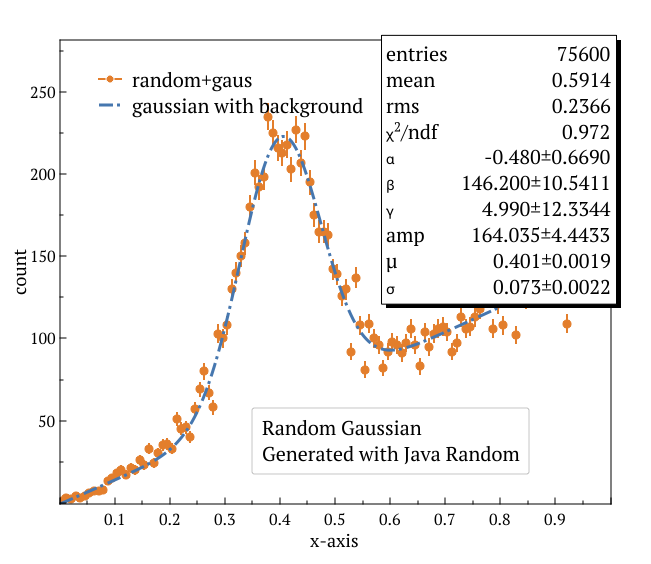
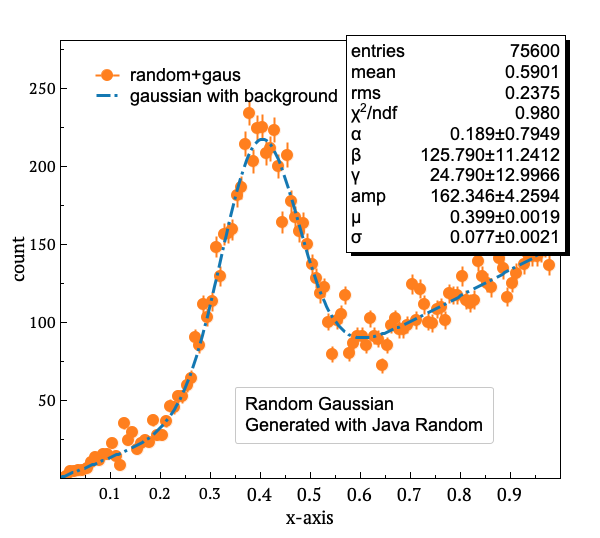
updated the figures

Changed region(s): [[0.0, 0.0595, 0.96, 0.9814]]

diff --git a/tutorials/plotting/advanced_h1d_fitting.java b/tutorials/plotting/advanced_h1d_fitting.java
@@ -7,8 +7,8 @@
 import java.awt.Font;
 
 TStyle.getInstance().setDefaultPaveTextFont( new Font("Arial",Font.PLAIN,18));
-TStyle.getInstance().setDefaultAxisLabelFont(new Font("Arial",Font.PLAIN,18));
-TStyle.getInstance().setDefaultAxisTitleFont(new Font("Arial",Font.PLAIN,20));
+TStyle.getInstance().setDefaultAxisLabelFont(new Font("Arial",Font.PLAIN,20));
+TStyle.getInstance().setDefaultAxisTitleFont(new Font("Arial",Font.PLAIN,22));
 
 Random r = new Random();
 H1F h = new H1F("h100","random+gaus;x-axis;count",120,0.0,1.0);
@@ -18,7 +18,7 @@ for(int i = 0; i < 3600; i++){
     for(int j = 0; j < 20;j++) h.fill((r.nextDouble()+r.nextDouble())*2);
 }
 
-h.attr().set("mc=3,ms=8,lc=3,lw=2");
+h.attr().set("mc=3,ms=8,lc=3,lw=2,ms=12");
 
 F1D func = new F1D("func","[a]+[b]*x+[c]*x*x+[amp]*gaus(x,[mean],[sigma])",.0,1.0);
 func.setParameters(1.0,2.0,3.0,200,0.45,0.2);
@@ -39,14 +39,10 @@ func.show();
 PaveText text = new PaveText("Random Gaussian",0.35,0.2);
 text.addLine("Generated with Java Random");
 
-TGCanvas c = new TGCanvas("myTwig",700,700);
+TGCanvas c = new TGCanvas("myTwig",600,600);
 c.draw(h,"EP").draw(func,"same");
 c.region().showLegend(0.05,0.95);
 c.region().showStats(1.01,1.01);
 c.draw(text);
-/*
-c.cd(0).draw(graph).draw(func,"same");
-c.region(0).showLegend(0.05,0.95);
-c.region(0).showStats(0.60,0.75);
-c.view().export("figure_advanced_graph_fitting.png"); // to save to PDF change the extention to .pdf
-*/
+c.repaint();
+c.view().export("figure_advanced_h1f_fitting.png");
